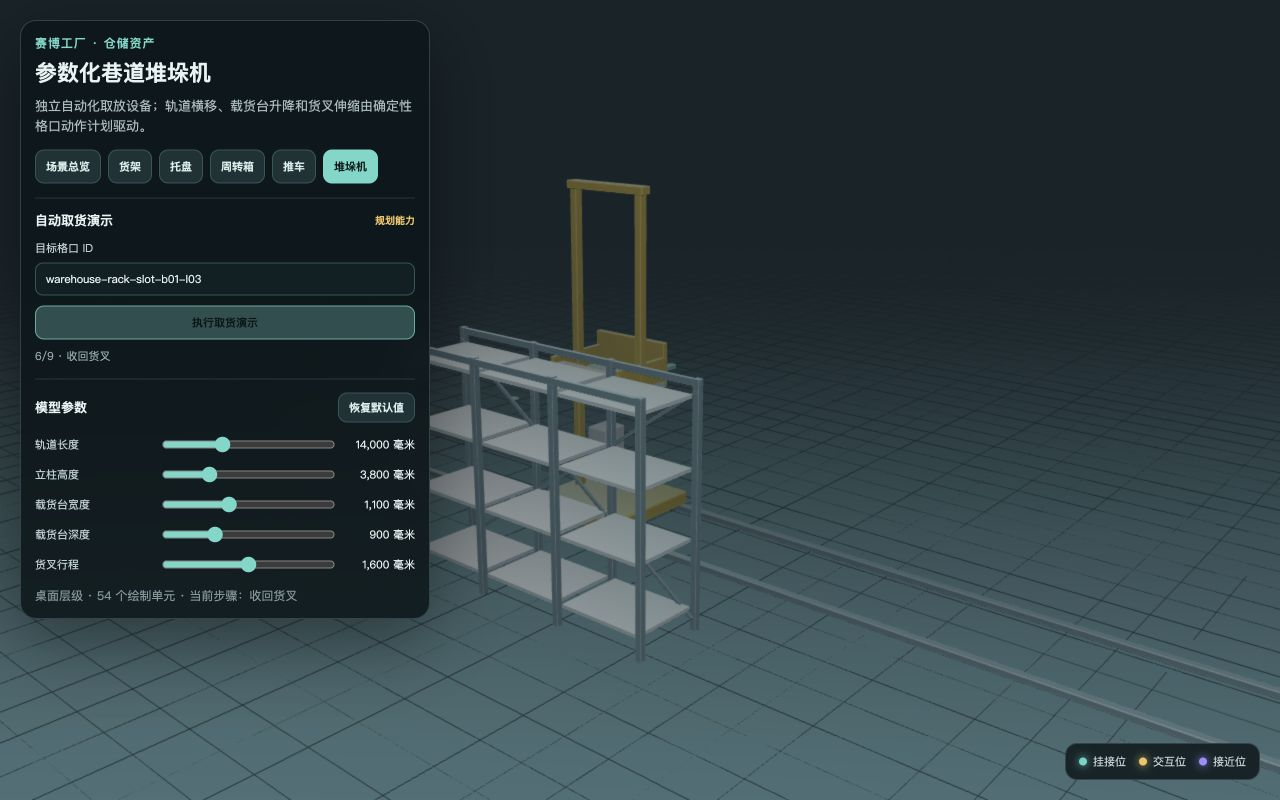
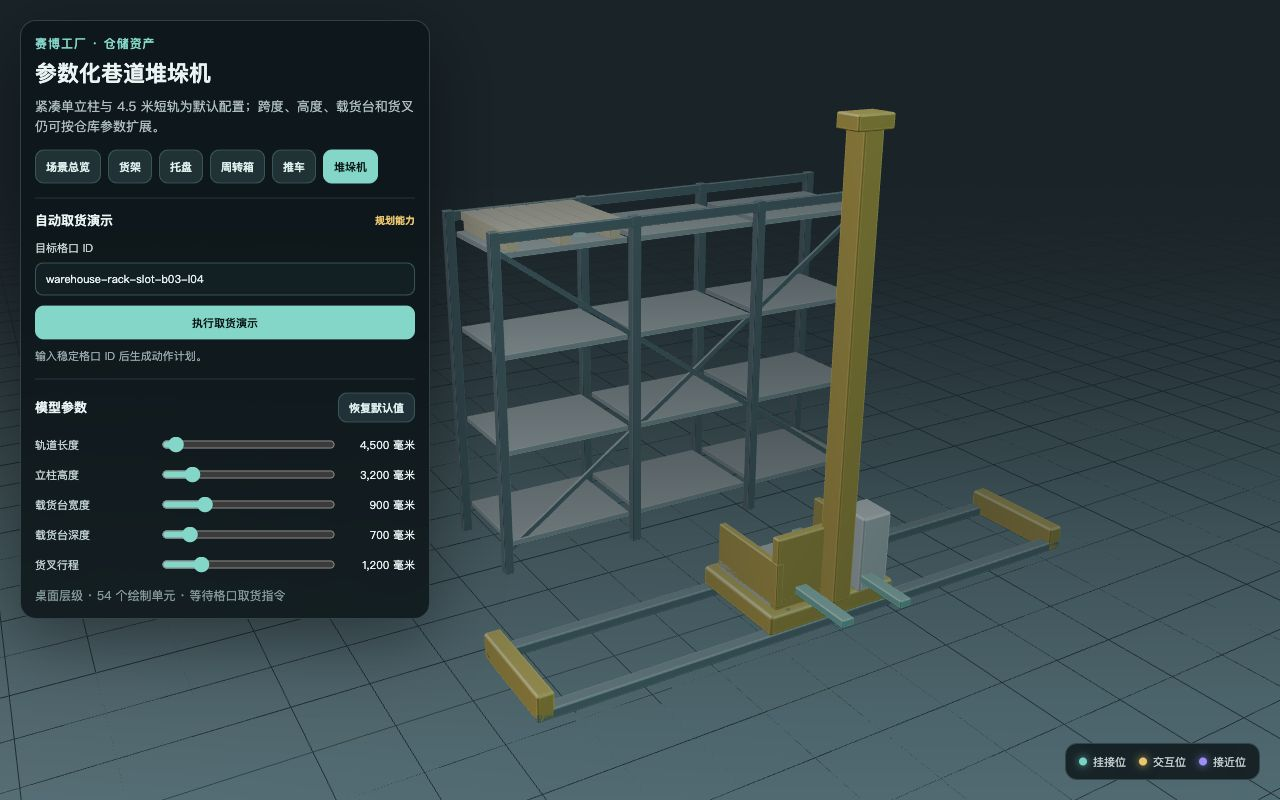
feat: compact warehouse stacker crane

diff --git a/domain-packages/cyber-factory/models/warehouse/model.ts b/domain-packages/cyber-factory/models/warehouse/model.ts
@@ -100,11 +100,11 @@ export const defaultWarehouseCartParameters: WarehouseCartParameters = {
 };
 
 export const defaultWarehouseStackerCraneParameters: WarehouseStackerCraneParameters = {
-  railLength: 14_000,
-  mastHeight: 3_800,
-  carriageWidth: 1_100,
-  carriageDepth: 900,
-  forkReach: 1_600,
+  railLength: 4_500,
+  mastHeight: 3_200,
+  carriageWidth: 900,
+  carriageDepth: 700,
+  forkReach: 1_200,
 };
 
 export const defaultWarehouseStackerCranePose: WarehouseStackerCranePose = {
@@ -471,11 +471,11 @@ export function normalizeWarehouseStackerCraneParameters(
   input: Partial<WarehouseStackerCraneParameters> = {},
 ): WarehouseStackerCraneParameters {
   return {
-    railLength: clamp(input.railLength ?? defaultWarehouseStackerCraneParameters.railLength, 6_000, 30_000),
+    railLength: clamp(input.railLength ?? defaultWarehouseStackerCraneParameters.railLength, 3_500, 30_000),
     mastHeight: clamp(input.mastHeight ?? defaultWarehouseStackerCraneParameters.mastHeight, 2_400, 8_000),
-    carriageWidth: clamp(input.carriageWidth ?? defaultWarehouseStackerCraneParameters.carriageWidth, 800, 1_600),
-    carriageDepth: clamp(input.carriageDepth ?? defaultWarehouseStackerCraneParameters.carriageDepth, 700, 1_400),
-    forkReach: clamp(input.forkReach ?? defaultWarehouseStackerCraneParameters.forkReach, 800, 2_400),
+    carriageWidth: clamp(input.carriageWidth ?? defaultWarehouseStackerCraneParameters.carriageWidth, 700, 1_600),
+    carriageDepth: clamp(input.carriageDepth ?? defaultWarehouseStackerCraneParameters.carriageDepth, 600, 1_400),
+    forkReach: clamp(input.forkReach ?? defaultWarehouseStackerCraneParameters.forkReach, 900, 2_400),
   };
 }
 
@@ -497,21 +497,21 @@ export function createWarehouseStackerCrane(
 ): CreateModelInput {
   const parameters = normalizeWarehouseStackerCraneParameters(input);
   const pose = normalizeWarehouseStackerCranePose(parameters, poseInput);
-  const railOffsetZ = parameters.carriageDepth * 0.68;
-  const mastOffsetX = parameters.carriageWidth * 0.46;
+  const railOffsetZ = parameters.carriageDepth * 0.52;
+  const mastZ = -parameters.carriageDepth * 0.58;
   const mastBottom = 230;
   const railFeatures: ModelFeature[] = [
     box("warehouse-stacker-left-rail", "堆垛机左轨", [parameters.railLength, 72, 96], [0, 36, -railOffsetZ], metalAppearance, 12),
     box("warehouse-stacker-right-rail", "堆垛机右轨", [parameters.railLength, 72, 96], [0, 36, railOffsetZ], metalAppearance, 12),
-    box("warehouse-stacker-left-end-stop", "左端限位器", [120, 220, parameters.carriageDepth * 1.55], [-parameters.railLength / 2 + 60, 110, 0], stackerFrameAppearance, 18),
-    box("warehouse-stacker-right-end-stop", "右端限位器", [120, 220, parameters.carriageDepth * 1.55], [parameters.railLength / 2 - 60, 110, 0], stackerFrameAppearance, 18),
+    box("warehouse-stacker-left-end-stop", "左端限位器", [120, 190, parameters.carriageDepth * 1.18], [-parameters.railLength / 2 + 60, 95, 0], stackerFrameAppearance, 18),
+    box("warehouse-stacker-right-end-stop", "右端限位器", [120, 190, parameters.carriageDepth * 1.18], [parameters.railLength / 2 - 60, 95, 0], stackerFrameAppearance, 18),
   ];
   const travelFeatures: ModelFeature[] = [
-    box("warehouse-stacker-travel-base", "堆垛机行走底座", [parameters.carriageWidth + 260, 170, parameters.carriageDepth * 1.55], [pose.travelX, 150, 0], stackerFrameAppearance, 24),
-    box("warehouse-stacker-left-mast", "堆垛机左立柱", [96, parameters.mastHeight, 110], [pose.travelX - mastOffsetX, mastBottom + parameters.mastHeight / 2, 0], stackerFrameAppearance, 12),
-    box("warehouse-stacker-right-mast", "堆垛机右立柱", [96, parameters.mastHeight, 110], [pose.travelX + mastOffsetX, mastBottom + parameters.mastHeight / 2, 0], stackerFrameAppearance, 12),
-    box("warehouse-stacker-top-beam", "堆垛机顶部横梁", [parameters.carriageWidth + 80, 100, 150], [pose.travelX, mastBottom + parameters.mastHeight, 0], stackerFrameAppearance, 14),
-    box("warehouse-stacker-control-cabinet", "堆垛机控制柜", [310, 720, 360], [pose.travelX - parameters.carriageWidth * 0.36, 590, -parameters.carriageDepth * 0.42], stackerCarriageAppearance, 20),
+    box("warehouse-stacker-travel-base", "紧凑型行走底座", [parameters.carriageWidth + 160, 150, parameters.carriageDepth * 1.18], [pose.travelX, 140, 0], stackerFrameAppearance, 24),
+    box("warehouse-stacker-single-mast", "堆垛机单立柱", [150, parameters.mastHeight, 180], [pose.travelX, mastBottom + parameters.mastHeight / 2, mastZ], stackerFrameAppearance, 14),
+    box("warehouse-stacker-mast-guide", "单立柱升降导轨", [58, parameters.mastHeight - 220, 34], [pose.travelX, mastBottom + parameters.mastHeight / 2 - 40, mastZ + 107], metalAppearance, 10),
+    box("warehouse-stacker-mast-cap", "单立柱顶帽", [280, 100, 210], [pose.travelX, mastBottom + parameters.mastHeight, mastZ], stackerFrameAppearance, 14),
+    box("warehouse-stacker-control-cabinet", "紧凑型控制柜", [240, 560, 260], [pose.travelX - parameters.carriageWidth * 0.34, 500, -parameters.carriageDepth * 0.46], stackerCarriageAppearance, 18),
   ];
   for (const xSign of [-1, 1]) {
     for (const zSign of [-1, 1]) {
@@ -520,7 +520,7 @@ export function createWarehouseStackerCrane(
         `${xSign < 0 ? "左" : "右"}${zSign < 0 ? "后" : "前"}行走轮`,
         112,
         64,
-        [pose.travelX + xSign * parameters.carriageWidth * 0.43, 112, zSign * railOffsetZ],
+        [pose.travelX + xSign * parameters.carriageWidth * 0.4, 104, zSign * railOffsetZ],
         rubberAppearance,
         [90, 0, 0],
       ));
@@ -540,7 +540,7 @@ export function createWarehouseStackerCrane(
   ];
   return {
     name: "参数化巷道堆垛机",
-    description: "沿轨道横移、升降载货台并伸缩货叉的自动化仓储取放设备。",
+    description: "采用紧凑单立柱、沿短轨横移并伸缩货叉的参数化自动仓储取放设备。",
     unit: "mm",
     featureGraph: {
       version: 1,

diff --git a/domain-packages/cyber-factory/models/warehouse/manifest.ts b/domain-packages/cyber-factory/models/warehouse/manifest.ts
@@ -365,16 +365,16 @@ export function createWarehouseStackerCraneManifest(
     schemaVersion: 1,
     id: "cyber-factory-warehouse-stacker-crane",
     displayName: "参数化巷道堆垛机",
-    description: "可沿轨道横移、升降载货台并伸缩货叉的自动化仓储取放设备。",
+    description: "默认采用紧凑单立柱与 4.5 米短轨，并可按仓库跨度扩展的自动化仓储取放设备。",
     version: "1.0.0",
     kind: "asset",
     modelUnit: "mm",
     parameters: [
-      { id: "rail-length", label: "轨道长度", type: "number", defaultValue: parameters.railLength, unit: "mm", minimum: 6_000, maximum: 30_000, step: 500 },
+      { id: "rail-length", label: "轨道长度", type: "number", defaultValue: parameters.railLength, unit: "mm", minimum: 3_500, maximum: 30_000, step: 500 },
       { id: "mast-height", label: "立柱高度", type: "number", defaultValue: parameters.mastHeight, unit: "mm", minimum: 2_400, maximum: 8_000, step: 100 },
-      { id: "carriage-width", label: "载货台宽度", type: "number", defaultValue: parameters.carriageWidth, unit: "mm", minimum: 800, maximum: 1_600, step: 50 },
-      { id: "carriage-depth", label: "载货台深度", type: "number", defaultValue: parameters.carriageDepth, unit: "mm", minimum: 700, maximum: 1_400, step: 50 },
-      { id: "fork-reach", label: "货叉行程", type: "number", defaultValue: parameters.forkReach, unit: "mm", minimum: 800, maximum: 2_400, step: 50 },
+      { id: "carriage-width", label: "载货台宽度", type: "number", defaultValue: parameters.carriageWidth, unit: "mm", minimum: 700, maximum: 1_600, step: 50 },
+      { id: "carriage-depth", label: "载货台深度", type: "number", defaultValue: parameters.carriageDepth, unit: "mm", minimum: 600, maximum: 1_400, step: 50 },
+      { id: "fork-reach", label: "货叉行程", type: "number", defaultValue: parameters.forkReach, unit: "mm", minimum: 900, maximum: 2_400, step: 50 },
     ],
     materials: [
       { id: "stacker-rails", label: "堆垛机轨道", material: "metal", color: "#71858E", featureIds: railIds },
@@ -387,9 +387,9 @@ export function createWarehouseStackerCraneManifest(
     colliders,
     anchors: [
       { id: "warehouse-stacker-fork-load-socket", label: "货叉装载位", kind: "socket", position: [0, defaultWarehouseStackerCranePose.liftY + 34, parameters.carriageDepth / 2], rotation: [0, 0, 0], range: 620, groupId: warehouseGroupIds.stackerForks, tags: ["warehouse", "cargo", "planned-attachment"] },
-      { id: "warehouse-stacker-control-panel", label: "堆垛机控制面板", kind: "interaction", position: [-parameters.carriageWidth * 0.36, 720, -parameters.carriageDepth * 0.72], rotation: [0, 0, 0], range: 780, featureId: "warehouse-stacker-control-cabinet", tags: ["warehouse", "automation", "planned-control"] },
+      { id: "warehouse-stacker-control-panel", label: "堆垛机控制面板", kind: "interaction", position: [-parameters.carriageWidth * 0.34, 640, -parameters.carriageDepth * 0.65], rotation: [0, 0, 0], range: 720, featureId: "warehouse-stacker-control-cabinet", tags: ["warehouse", "automation", "planned-control"] },
       { id: "warehouse-stacker-outbound-socket", label: "默认出库位", kind: "placement", position: [0, defaultWarehouseStackerCranePose.liftY, -parameters.carriageDepth], rotation: [0, 180, 0], range: 820, groupId: warehouseGroupIds.stackerCarriage, tags: ["warehouse", "outbound", "planned-attachment"] },
-      { id: "warehouse-stacker-maintenance-approach", label: "堆垛机维护接近位", kind: "approach", position: [0, 0, -parameters.carriageDepth * 1.45], rotation: [0, 0, 0], range: 1_100, groupId: warehouseGroupIds.stackerTravelFrame, tags: ["warehouse", "maintenance", "navigation"] },
+      { id: "warehouse-stacker-maintenance-approach", label: "堆垛机维护接近位", kind: "approach", position: [0, 0, -parameters.carriageDepth * 1.1], rotation: [0, 0, 0], range: 900, groupId: warehouseGroupIds.stackerTravelFrame, tags: ["warehouse", "maintenance", "navigation"] },
     ],
     joints: [],
     lod: [
@@ -397,8 +397,8 @@ export function createWarehouseStackerCraneManifest(
       { device: "mobile", levels: [{ id: "stacker-mobile-core", maximumDistance: 22_000, featureIds: mobileIds, triangleBudget: Math.max(1_100, mobileIds.length * 16) }] },
     ],
     previews: [
-      { device: "desktop", cameraPosition: [9_500, 5_800, 9_500], cameraTarget: [0, 1_850, 0], background: "dark" },
-      { device: "mobile", cameraPosition: [12_500, 7_200, 13_000], cameraTarget: [0, 1_800, 0], background: "dark" },
+      { device: "desktop", cameraPosition: [5_800, 4_200, 6_200], cameraTarget: [0, 1_500, 500], background: "dark" },
+      { device: "mobile", cameraPosition: [7_000, 5_000, 7_800], cameraTarget: [0, 1_450, 500], background: "dark" },
     ],
     tags: ["cyber-factory", "warehouse", "stacker-crane", "automated-storage", "retrieval", "planned"],
   };

diff --git a/domain-packages/cyber-factory/models/warehouse/preview.ts b/domain-packages/cyber-factory/models/warehouse/preview.ts
@@ -129,20 +129,20 @@ const assetConfigs: Record<AssetKey, AssetPreviewConfig> = {
   },
   stacker: {
     title: "参数化巷道堆垛机",
-    summary: "独立自动化取放设备；轨道横移、载货台升降和货叉伸缩由确定性格口动作计划驱动。",
+    summary: "紧凑单立柱与 4.5 米短轨为默认配置；跨度、高度、载货台和货叉仍可按仓库参数扩展。",
     defaults: valuesOf(defaultWarehouseStackerCraneParameters),
     parameters: [
-      { key: "railLength", label: "轨道长度", minimum: 6_000, maximum: 30_000, step: 500, unit: "毫米" },
+      { key: "railLength", label: "轨道长度", minimum: 3_500, maximum: 30_000, step: 500, unit: "毫米" },
       { key: "mastHeight", label: "立柱高度", minimum: 2_400, maximum: 8_000, step: 100, unit: "毫米" },
-      { key: "carriageWidth", label: "载货台宽度", minimum: 800, maximum: 1_600, step: 50, unit: "毫米" },
-      { key: "carriageDepth", label: "载货台深度", minimum: 700, maximum: 1_400, step: 50, unit: "毫米" },
-      { key: "forkReach", label: "货叉行程", minimum: 800, maximum: 2_400, step: 50, unit: "毫米" },
+      { key: "carriageWidth", label: "载货台宽度", minimum: 700, maximum: 1_600, step: 50, unit: "毫米" },
+      { key: "carriageDepth", label: "载货台深度", minimum: 600, maximum: 1_400, step: 50, unit: "毫米" },
+      { key: "forkReach", label: "货叉行程", minimum: 900, maximum: 2_400, step: 50, unit: "毫米" },
     ],
     createDefinition: (parameters) => createWarehouseStackerCraneDefinition(parameters as Partial<WarehouseStackerCraneParameters>),
-    cameraPosition: [9_500, 5_800, 9_500],
-    cameraTarget: [0, 1_850, 700],
-    minimumDistance: 5_000,
-    maximumDistance: 26_000,
+    cameraPosition: [4_600, 4_300, -5_800],
+    cameraTarget: [900, 1_470, 700],
+    minimumDistance: 3_200,
+    maximumDistance: 18_000,
   },
 };
 
@@ -337,13 +337,7 @@ function renderOverview() {
   const pallet = createWarehousePalletDefinition(defaultWarehousePalletParameters);
   const tote = createWarehouseToteDefinition(defaultWarehouseToteParameters);
   const cart = createWarehouseCartDefinition(defaultWarehouseCartParameters);
-  const stacker = createWarehouseStackerCraneDefinition({
-    railLength: 6_000,
-    mastHeight: 3_000,
-    carriageWidth: 900,
-    carriageDepth: 700,
-    forkReach: 1_200,
-  });
+  const stacker = createWarehouseStackerCraneDefinition(defaultWarehouseStackerCraneParameters);
   const rackPosition: Vector3Tuple = [-500, 0, -180];
   let drawUnits = buildAsset(rack, rackPosition);
   drawUnits += buildAsset(pallet, [
@@ -385,7 +379,7 @@ interface StackerAnimationState {
   lastRenderedAt: number;
 }
 
-const stackerRackPosition: Vector3Tuple = [0, 0, 2_200];
+const stackerRackPosition: Vector3Tuple = [0, 0, 1_800];
 let stackerPose: WarehouseStackerCranePose = { ...defaultWarehouseStackerCranePose };
 let stackerPlan: ValidWarehouseRetrievalPlan | null = null;
 let stackerAnimation: StackerAnimationState | null = null;
@@ -444,12 +438,12 @@ function renderStackerScene(
   }
   if (resetCamera) {
     const railLength = stackerParameters.railLength;
-    const distance = Math.max(9_500, railLength * 0.72, stackerParameters.mastHeight * 2.2);
+    const distance = Math.max(5_800, railLength * 0.9, stackerParameters.mastHeight * 1.8);
     setCamera(
-      [distance * 0.8, Math.max(5_200, stackerParameters.mastHeight * 1.45), distance],
-      [0, stackerParameters.mastHeight * 0.48, 700],
-      5_000,
-      Math.max(26_000, railLength * 2.5),
+      [distance * 0.8, Math.max(3_900, stackerParameters.mastHeight * 1.35), -distance],
+      [900, stackerParameters.mastHeight * 0.46, 700],
+      3_200,
+      Math.max(18_000, railLength * 2.5),
     );
   }
   metrics.textContent = `${quality === "mobile" ? "手机" : "桌面"}层级 · ${drawUnits} 个绘制单元 · ${phaseLabel}`;
@@ -497,8 +491,8 @@ function renderCurrentMode() {
   if (currentMode === "overview") {
     const drawUnits = renderOverview();
     assetTitle.textContent = "仓储与内部物流套件";
-    assetSummary.textContent = "五项资产可独立引用，也可通过货位与搬运锚点组合。";
-    metrics.textContent = `${quality === "mobile" ? "手机" : "桌面"}层级 · ${drawUnits} 个绘制单元 · 5 项独立资产`;
+    assetSummary.textContent = "六项资产可独立引用，也可通过货位与搬运锚点组合。";
+    metrics.textContent = `${quality === "mobile" ? "手机" : "桌面"}层级 · ${drawUnits} 个绘制单元 · 6 项独立资产`;
     return;
   }
 

diff --git a/domain-packages/cyber-factory/models/warehouse/warehouse.test.ts b/domain-packages/cyber-factory/models/warehouse/warehouse.test.ts
@@ -109,12 +109,30 @@ describe("warehouse and internal logistics asset kit", () => {
     expect(definition.manifest.tags).toContain("planned");
   });
 
+  it("uses a compact single-mast default that still reaches every slot in the default rack", () => {
+    expect(defaultWarehouseStackerCraneParameters).toEqual({
+      railLength: 4_500,
+      mastHeight: 3_200,
+      carriageWidth: 900,
+      carriageDepth: 700,
+      forkReach: 1_200,
+    });
+    const graph = createWarehouseStackerCraneDefinition().createModel().featureGraph!;
+    expect(graph.features.some(({ id }) => id === "warehouse-stacker-single-mast")).toBe(true);
+    expect(graph.features.some(({ id }) => id === "warehouse-stacker-right-mast")).toBe(false);
+    expect(planWarehouseRetrieval(
+      "warehouse-rack-slot-b03-l04",
+      defaultWarehouseRackParameters,
+      defaultWarehouseStackerCraneParameters,
+    )).toMatchObject({ valid: true });
+  });
+
   it("turns a stable rack slot id into a deterministic planned retrieval sequence", () => {
     const rack = { ...defaultWarehouseRackParameters, bayCount: 12, levelCount: 8 };
     const plan = planWarehouseRetrieval(
       "warehouse-rack-slot-b03-l04",
       rack,
-      defaultWarehouseStackerCraneParameters,
+      { ...defaultWarehouseStackerCraneParameters, railLength: 14_000 },
     );
     expect(plan.valid).toBe(true);
     if (!plan.valid) return;

diff --git a/domain-packages/cyber-factory/models/warehouse/preview.html b/domain-packages/cyber-factory/models/warehouse/preview.html
@@ -12,7 +12,7 @@
       <section class="panel" aria-label="资产信息">
         <p class="eyebrow">赛博工厂 · 仓储资产</p>
         <h1 id="asset-title">仓储与内部物流套件</h1>
-        <p id="asset-summary" class="summary">五项资产可独立引用，也可通过货位与搬运锚点组合。</p>
+        <p id="asset-summary" class="summary">六项资产可独立引用，也可通过货位与搬运锚点组合。</p>
         <nav class="asset-tabs" aria-label="预览模型">
           <button type="button" data-asset="overview" aria-pressed="true">场景总览</button>
           <button type="button" data-asset="rack" aria-pressed="false">货架</button>

diff --git a/domain-packages/cyber-factory/models/warehouse/README.md b/domain-packages/cyber-factory/models/warehouse/README.md
@@ -8,9 +8,9 @@
 - `cyber-factory-warehouse-pallet`：带顶部装载 socket 和前后货叉入口的木质托盘。
 - `cyber-factory-warehouse-tote`：带真实开放内腔、内容 socket 和双侧搬运锚点的塑料周转箱。
 - `cyber-factory-warehouse-cart`：带装载 socket、推行锚点、双层台面和四轮的物流推车。
-- `cyber-factory-warehouse-stacker-crane`：沿轨道横移、升降载货台并伸缩货叉的巷道堆垛机；输入稳定格口 ID 后可生成确定性的九步取货计划。
+- `cyber-factory-warehouse-stacker-crane`：默认采用 4.5 米短轨与紧凑单立柱，也可参数化扩展轨道、高度、载货台和货叉；输入稳定格口 ID 后可生成确定性的九步取货计划。
 
-所有模型使用毫米、`+y` 向上、`+z` 朝正面，底面基准为 `y = 0`。资产可独立引用，也可在预览中组合成仓储场景。预览提供“场景总览”和五项独立资产标签页；进入单项资产后，可使用参数控件实时重建模型并恢复默认值。货架使用立柱、横梁和每层货板的分体碰撞体，不用整块碰撞体封死货位；移动 LOD 省略斜撑、握边或次要承载层。
+所有模型使用毫米、`+y` 向上、`+z` 朝正面，底面基准为 `y = 0`。资产可独立引用，也可在预览中组合成仓储场景。预览提供“场景总览”和六项独立资产标签页；进入单项资产后，可使用参数控件实时重建模型并恢复默认值。货架使用立柱、横梁和每层货板的分体碰撞体，不用整块碰撞体封死货位；移动 LOD 省略斜撑、握边或次要承载层。
 
 ## 堆垛机取货计划
 
